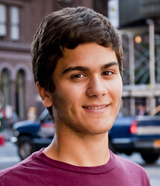
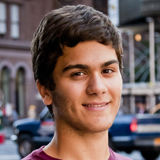
made andrew and nick squares

diff --git a/index.html b/index.html
@@ -135,7 +135,7 @@
 				</section>
 				<section class="teammate tk-ratio">
 					<header>
-						<img class ="profile-img" src="./images/team/nick.jpg" />
+						<img src="./images/team/nick.jpg" />
 					    <h3 class="tk-ratio"><a href="">nick breeser</a></h3>
 					</header>
 					<p>social media expert</p>

diff --git a/css/style.css b/css/style.css
@@ -389,12 +389,6 @@ div.footer > .block:hover {
 	font-size: 16pt;
 }
 
-.profile-img {
-    -moz-border-radius: 50%;
-    -webkit-border-radius: 50%;
-    border-radius: 50%;
-}
-
 @media (max-height: 720px) {
 	article.about {
 		background-color: rgba(0, 0, 0, 0.4);
